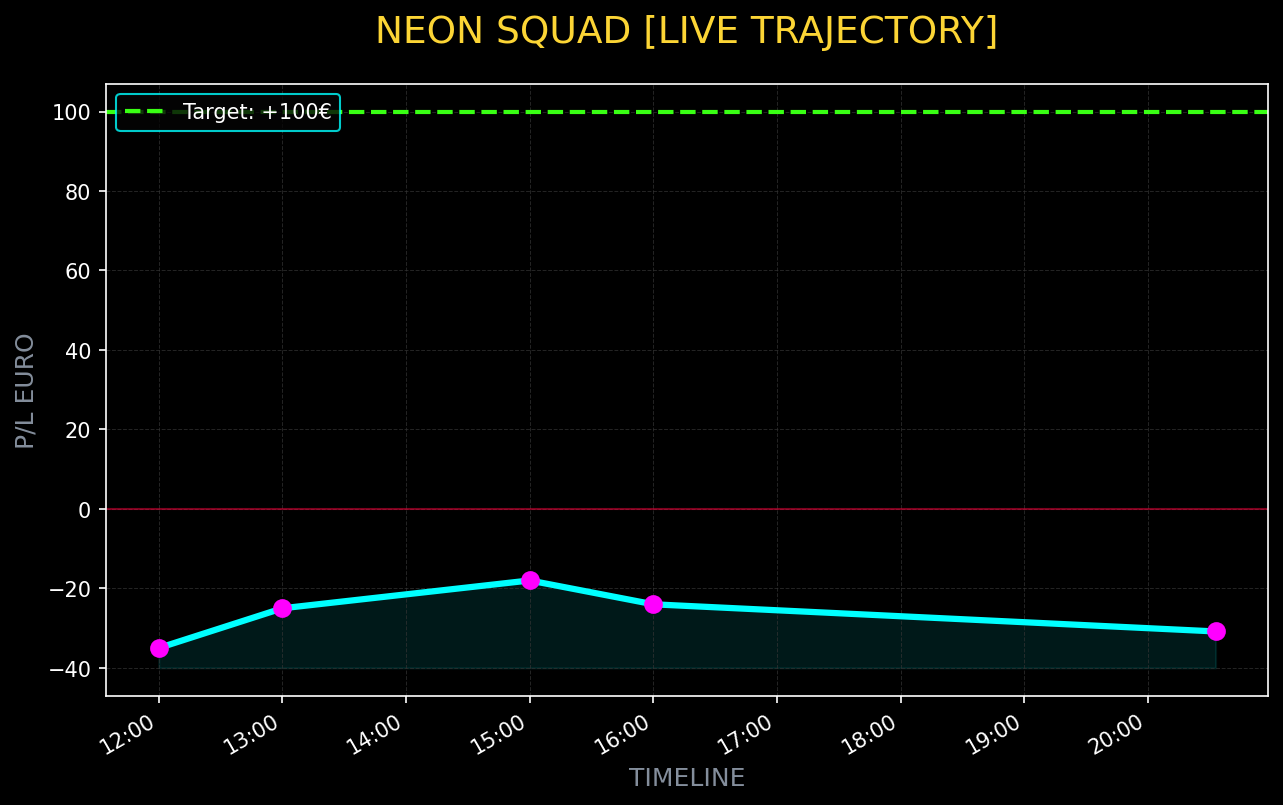
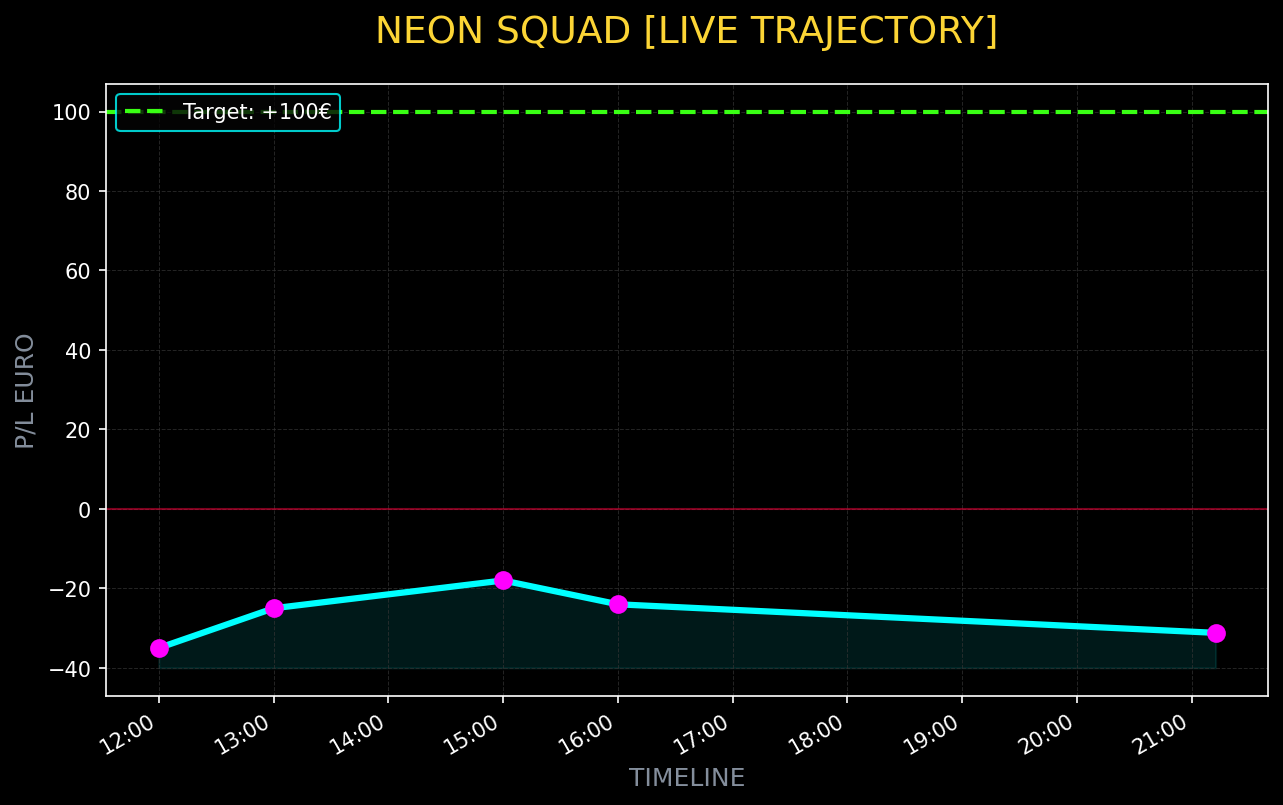
feat(infra): introduce Zabbix Watchdog for automated self-healing & system metrics

diff --git a/dashboard/index.html b/dashboard/index.html
@@ -167,7 +167,32 @@
         .status-dot.online { background: var(--green); box-shadow: 0 0 8px var(--green); animation: blink 2s infinite; }
 
         /* Middle Column: Market Radar & Chart */
+        
         .market-grid {
+            display: grid; grid-template-columns: repeat(auto-fill, minmax(150px, 1fr)); gap: 10px;
+            margin-bottom: 20px;
+        }
+        
+        .zabbix-table {
+            width: 100%; border-collapse: collapse; font-size: 12px; margin-bottom: 20px;
+            background: rgba(0,0,0,0.5); border: 1px solid var(--panel-border);
+        }
+        .zabbix-table th, .zabbix-table td {
+            border: 1px solid var(--panel-border); padding: 8px; text-align: left;
+        }
+        .zabbix-table th { background: rgba(0, 243, 255, 0.1); color: var(--cyan); }
+        .zabbix-table tr:hover { background: rgba(255,255,255,0.05); }
+        .alert-red { color: var(--red); font-weight: bold; }
+        .alert-yellow { color: var(--yellow); }
+        .alert-green { color: var(--green); }
+        
+        .zabbix-chart-container {
+            width: 100%; height: 150px; background: #000; border: 1px solid var(--panel-border);
+            margin-bottom: 20px; display: flex; align-items: flex-end; padding: 10px; gap: 2px;
+        }
+        .bar-col { flex: 1; background: var(--cyan); opacity: 0.8; transition: height 0.5s; position: relative; }
+        .bar-col:hover { opacity: 1; background: var(--pink); }
+
             display: grid; grid-template-columns: repeat(auto-fill, minmax(150px, 1fr)); gap: 10px;
             margin-bottom: 20px;
         }
@@ -245,6 +270,32 @@
 
     <div class="layout">
         <!-- TOP STATS -->
+        
+        <!-- ZABBIX MONITOR -->
+        <div class="panel" style="grid-column: 1 / -1;">
+            <div class="panel-title">ZABBIX.INFRASTRUCTURE_MONITOR_ [PID/CPU/RAM]</div>
+            
+            <div class="zabbix-chart-container" id="zabbix-chart" title="Total CPU/RAM Usage History">
+                <!-- Bars injected here -->
+            </div>
+            
+            <table class="zabbix-table" id="zabbix-table">
+                <thead>
+                    <tr>
+                        <th>BOT NODE</th>
+                        <th>STATUS</th>
+                        <th>PID</th>
+                        <th>CPU %</th>
+                        <th>RAM %</th>
+                        <th>LAST LOG PING</th>
+                    </tr>
+                </thead>
+                <tbody>
+                    <!-- Rows injected here -->
+                </tbody>
+            </table>
+        </div>
+
         <div class="top-stats">
             <div class="panel stat-box">
                 <div class="stat-val cyan" id="stat-target">10.00€</div>
@@ -425,8 +476,51 @@
             if(img) img.src = '/profit_chart.png?t=' + new Date().getTime();
         }
 
+        
+        async function fetchZabbix() {
+            try {
+                const response = await fetch('/zabbix_metrics.json');
+                const data = await response.json();
+                
+                const tbody = document.querySelector('#zabbix-table tbody');
+                tbody.innerHTML = '';
+                
+                let htmlRows = '';
+                for(let bot in data.bots) {
+                    const info = data.bots[bot];
+                    let statusClass = 'alert-red';
+                    if(info.status === 'ONLINE') statusClass = 'alert-green';
+                    else if(info.status.includes('ZOMBIE')) statusClass = 'alert-yellow';
+                    
+                    htmlRows += `<tr>
+                        <td>${bot}</td>
+                        <td class="${statusClass}">${info.status}</td>
+                        <td>${info.pid}</td>
+                        <td class="${info.cpu > 10 ? 'alert-yellow' : ''}">${info.cpu.toFixed(1)}%</td>
+                        <td class="${info.mem > 5 ? 'alert-yellow' : ''}">${info.mem.toFixed(1)}%</td>
+                        <td class="${info.log_age_s > 600 ? 'alert-yellow' : ''}">${info.log_age_s}s ago</td>
+                    </tr>`;
+                }
+                tbody.innerHTML = htmlRows;
+                
+                const chart = document.getElementById('zabbix-chart');
+                chart.innerHTML = '';
+                
+                // Max 100% per colonna (scalato sul max cpu storico)
+                let maxCpu = 1;
+                data.history.forEach(h => { if(h.cpu > maxCpu) maxCpu = h.cpu; });
+                
+                data.history.forEach(h => {
+                    const pct = (h.cpu / maxCpu) * 100;
+                    chart.innerHTML += `<div class="bar-col" style="height: ${Math.max(2, pct)}%" title="${h.time} | CPU: ${h.cpu}% | MEM: ${h.mem}%"></div>`;
+                });
+                
+            } catch(e) {}
+        }
+
         function updateAll() {
             fetchMarketData();
+            fetchZabbix();
             fetchFleetStatus();
             fetchBalances();
             fetchLogs();

diff --git a/zabbix_watchdog.py b/zabbix_watchdog.py
@@ -1,0 +1,142 @@
+import os, time, logging, subprocess, json, gc
+from datetime import datetime
+
+logging.basicConfig(level=logging.INFO, format='%(asctime)s - %(message)s',
+                    handlers=[logging.FileHandler("/home/sergio/.openclaw/workspace/denaro/ZABBIX.log"), logging.StreamHandler()])
+logger = logging.getLogger("Zabbix")
+
+WORKSPACE = "/home/sergio/.openclaw/workspace/denaro"
+METRICS_FILE = os.path.join(WORKSPACE, "dashboard", "zabbix_metrics.json")
+HISTORY_FILE = os.path.join(WORKSPACE, "zabbix_history.json")
+
+BOTS = {
+    "SNIPER_SQUAD": "sniper_squad.py",
+    "GARIBAN": "gariban_beggar.py",
+    "VAMPIRO": "vampire_grid.py",
+    "SCIACALLO": "scavenger_doge.py",
+    "PHANTOM": "phantom_maker.py",
+    "TSUNAMI": "tsunami_rider.py",
+    "SCIAME": "hunter_swarm.py",
+    "DARKPOOL": "dark_pool_arb.py",
+    "BLACKHOLE": "black_hole_absorber.py",
+    "STABLESCALP": "stable_scalper.py",
+    "RSI_HUNTER": "rsi_divergence_hunter.py",
+    "TG_BOT": "telegram_bot_interactive.py",
+    "DASHBOARD": "dashboard_server.py"
+}
+
+def get_process_info(script_name):
+    try:
+        out = subprocess.check_output(f"ps aux | grep '{script_name}' | grep -v grep || true", shell=True).decode().strip()
+        if not out: return None
+        lines = out.split('\n')
+        # Return sum of cpu/mem if multiple
+        total_cpu = 0.0
+        total_mem = 0.0
+        pid = lines[0].split()[1] # take first pid
+        for l in lines:
+            parts = l.split()
+            if len(parts) >= 4:
+                total_cpu += float(parts[2])
+                total_mem += float(parts[3])
+                
+        return {
+            "pid": pid,
+            "cpu": total_cpu,
+            "mem": total_mem
+        }
+    except:
+        return None
+
+def main():
+    logger.info("👁️ ZABBIX WATCHDOG AVVIATO. Monitoraggio Salute Server e OOM Prevention.")
+    history = []
+    if os.path.exists(HISTORY_FILE):
+        try:
+            with open(HISTORY_FILE, 'r') as f:
+                history = json.load(f)
+        except: pass
+
+    while True:
+        try:
+            metrics = {}
+            total_cpu = 0.0
+            total_mem = 0.0
+            
+            for name, script in BOTS.items():
+                info = get_process_info(script)
+                
+                # Resolving correct log paths
+                if name == "SNIPER_SQUAD": log_name = "sniper_squad.log"
+                elif name == "GARIBAN": log_name = "GARIBAN.log"
+                elif name == "VAMPIRO": log_name = "VAMPIRE.log"
+                elif name == "SCIACALLO": log_name = "SCAVENGER.log"
+                elif name == "PHANTOM": log_name = "PHANTOM.log"
+                elif name == "TSUNAMI": log_name = "TSUNAMI.log"
+                elif name == "SCIAME": log_name = "HUNTER_SWARM.log"
+                elif name == "DARKPOOL": log_name = "DARKPOOL.log"
+                elif name == "BLACKHOLE": log_name = "BLACKHOLE.log"
+                elif name == "STABLESCALP": log_name = "STABLE_SCALPER.log"
+                elif name == "RSI_HUNTER": log_name = "RSI_HUNTER.log"
+                elif name == "TG_BOT": log_name = "TG-BOT.log"
+                elif name == "DASHBOARD": log_name = "DASHBOARD.log"
+                else: log_name = f"{name}.log"
+                
+                log_path = os.path.join(WORKSPACE, log_name)
+                
+                status = "OFFLINE"
+                last_log_sec = 0
+                
+                if info:
+                    status = "ONLINE"
+                    total_cpu += info["cpu"]
+                    total_mem += info["mem"]
+                    
+                    if os.path.exists(log_path):
+                        last_log_sec = time.time() - os.path.getmtime(log_path)
+                        # Zombie if no log update in 15 minutes (900 seconds) AND log exists
+                        if last_log_sec > 900 and name not in ["BLACKHOLE", "PHANTOM", "DARKPOOL", "STABLESCALP", "SCIACALLO", "TG_BOT", "DASHBOARD"]:
+                            status = "ZOMBIE"
+                            logger.warning(f"🧟 {name} IN STATO ZOMBIE! Log bloccato da {last_log_sec:.0f}s. UCCISIONE IN CORSO PID {info['pid']}!")
+                            os.system(f"kill -9 {info['pid']}")
+                            info = None
+                            status = "KILLED"
+                
+                metrics[name] = {
+                    "status": status,
+                    "cpu": round(info["cpu"], 1) if info else 0.0,
+                    "mem": round(info["mem"], 1) if info else 0.0,
+                    "pid": info["pid"] if info else "---",
+                    "log_age_s": round(last_log_sec) if info else 0
+                }
+                
+            now_str = datetime.now().strftime("%H:%M")
+            
+            history.append({
+                "time": now_str,
+                "cpu": round(total_cpu, 2),
+                "mem": round(total_mem, 2)
+            })
+            
+            if len(history) > 60: history = history[-60:]
+                
+            try:
+                with open(HISTORY_FILE, 'w') as f:
+                    json.dump(history, f)
+            except: pass
+                
+            try:
+                with open(METRICS_FILE, 'w') as f:
+                    json.dump({"timestamp": now_str, "bots": metrics, "history": history}, f)
+            except: pass
+            
+            # Watchdog frequency 1 min
+            time.sleep(60)
+            gc.collect()
+            
+        except Exception as e:
+            logger.error(f"Errore Watchdog: {e}")
+            time.sleep(30)
+
+if __name__ == "__main__":
+    main()

diff --git a/dashboard/dashboard_server.py b/dashboard/dashboard_server.py
@@ -103,6 +103,9 @@ class Handler(http.server.SimpleHTTPRequestHandler):
             self.end_headers()
             self.wfile.write(data.encode())
             return
+        elif self.path == '/zabbix_metrics.json' or self.path.startswith('/zabbix_metrics.json?'):
+            self.send_json_file(os.path.join(DASHBOARD_DIR, 'zabbix_metrics.json'))
+            return
         elif self.path.startswith('/profit_chart.png'):
             # Generiamo il chart al volo
             os.system("/home/sergio/.openclaw/workspace/denaro/trading_bot_env/bin/python3 /home/sergio/.openclaw/workspace/denaro/generate_profit_chart.py")

diff --git a/telegram_bot_interactive.py b/telegram_bot_interactive.py
@@ -90,6 +90,7 @@ def get_squad_stats():
         darkpool = "dark_pool_arb.py" in ps_output
         blackhole = "black_hole_absorber.py" in ps_output
         stablescalper = "stable_scalper.py" in ps_output
+        zabbix = "zabbix_watchdog.py" in ps_output
         rsihunter = "rsi_divergence_hunter.py" in ps_output
         
         status = "🚀 *STATO SQUADRE (Lite Guardian 2.1)*\n------------------------------------\n🔹 VECCHIA FLOTTA: DISATTIVATA (No OOM)\n"
@@ -103,6 +104,7 @@ def get_squad_stats():
         status += f"🌑 DARKPOOL: {'ONLINE' if darkpool else 'OFFLINE'} (Radar Triangolare)\n"
         status += f"🌌 BLACKHOLE: {'ONLINE' if blackhole else 'OFFLINE'} (Timing Globale)\n"
         status += f"⚖️ STABLESCALP: {'ONLINE' if stablescalper else 'OFFLINE'} (Spread EUR/USDT)\n"
+        status += f"👁️ ZABBIX: {'ONLINE' if zabbix else 'OFFLINE'} (Monitoraggio Salute)\n"
         status += f"📊 RSIHUNTER: {'ONLINE' if rsihunter else 'OFFLINE'} (Divergenze 5m)\n"
         status += "🔐 CASSAFORTE 33%: ONLINE E BLINDATA\n------------------------------------"
         return status

diff --git a/hunter_swarm.py b/hunter_swarm.py
@@ -155,6 +155,7 @@ def main():
     try:
         while True:
             time.sleep(60)
+            logger.info("💗 Heartbeat OK.")
             gc.collect()
     except KeyboardInterrupt:
         twm.stop()

diff --git a/lite_guardian.py b/lite_guardian.py
@@ -22,6 +22,7 @@ BOT_REGISTRY = {
     "BLACKHOLE": "black_hole_absorber.py",
     "STABLESCALPER": "stable_scalper.py",
     "RSI_HUNTER": "rsi_divergence_hunter.py",
+    "ZABBIX": "zabbix_watchdog.py",
 }
 
 def is_running(script):

diff --git a/sniper_squad.py b/sniper_squad.py
@@ -259,6 +259,7 @@ def main():
             # Periodicamente, controlla se è cambiata la mezzanotte (cambiando giorno)
             get_daily_mission()
             time.sleep(60)
+            logger.info("💗 Heartbeat OK. Memoria pulita.")
             gc.collect()
     except KeyboardInterrupt:
         twm.stop()

diff --git a/vampire_grid.py b/vampire_grid.py
@@ -141,6 +141,7 @@ def main():
     try:
         while True:
             time.sleep(60)
+            logger.info("💗 Heartbeat OK.")
             gc.collect()
     except KeyboardInterrupt:
         twm.stop()